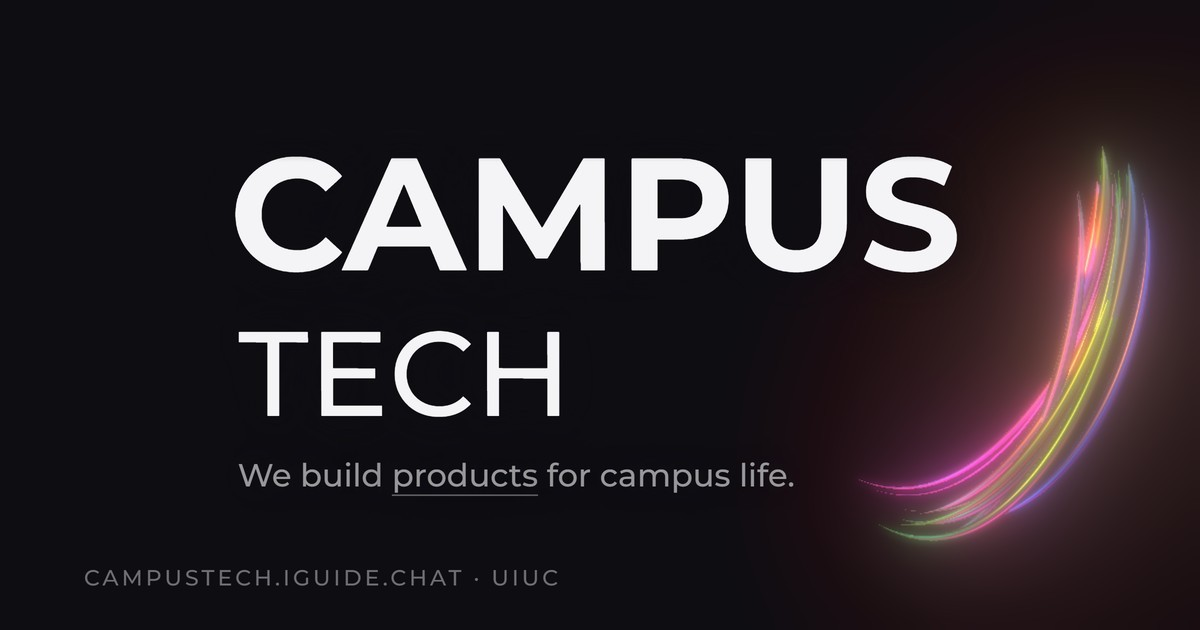
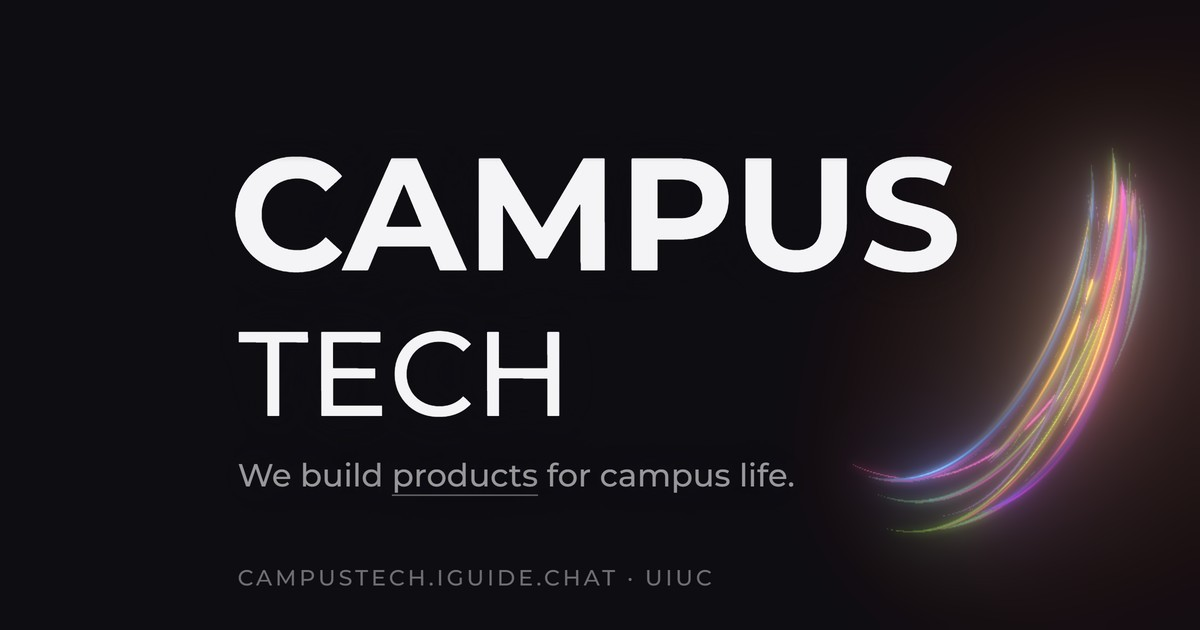
fix: align the link preview's URL line with the lockup
The URL line in og.jpg used a fixed 42px padding, so it sat 150px left of
CAMPUS / TECH / the tagline. The capture now starts it at the tagline's
text edge, and a test checks every line of og.jpg shares one left edge.

Changed region(s): [[0.7092, 0.2413, 0.9867, 0.9048], [0.0617, 0.9048, 0.5858, 0.9349]]

diff --git a/tools/ci/test_site.py b/tools/ci/test_site.py
@@ -648,6 +648,32 @@ def hero_lines_share_an_optical_left_edge(site):
 
 
 @test
+def link_preview_lines_share_a_left_edge(site):
+    """The iMessage preview showed the URL line 150px left of the lockup (a fixed padding, not the
+    lockup's edge). In assets/og.jpg every text line starts on one edge: TECH, the tagline and the
+    URL within 2px, CAMPUS's round C at most 8px past them, never short of them."""
+    from PIL import Image
+
+    im = Image.open(ROOT / "assets" / "og.jpg").convert("L")
+    w, h = im.size
+    px = im.load()
+    # Text is on the left; the tubes glow on the right half.
+    edges = [min((x for x in range(w // 2) if px[x, y] > 90), default=None) for y in range(h)]
+    lines, start = [], None
+    for y, x in enumerate(edges + [None]):
+        if x is not None and start is None:
+            start = y
+        elif x is None and start is not None:
+            if y - start > 4:
+                lines.append(min(edges[start:y]))
+            start = None
+    assert len(lines) == 4, f"expected 4 text lines in og.jpg (CAMPUS, TECH, tagline, URL), found {len(lines)}: {lines}"
+    campus, *rest = lines
+    assert max(rest) - min(rest) <= 2, f"TECH, tagline and URL start at x={rest}, not one edge"
+    assert 0 <= min(rest) - campus <= 8, f"CAMPUS starts at x={campus}, the other lines at {min(rest)}"
+
+
+@test
 def type_is_fluid(site):
     """d76c474: font sizes scale down on narrow screens."""
     big = site.open("/", width=1280)

diff --git a/tools/images/og_capture.py b/tools/images/og_capture.py
@@ -28,7 +28,7 @@ VIEW = {"width": 600, "height": 315}
 HIDE = """
   .nav, #cord, .pullcord, .hero-align, .next, #loader, .preview { display: none !important; }
   html, body { overflow: hidden !important; }
-  #og-url { position: fixed; left: 0; right: 0; bottom: 20px; z-index: 50; padding-left: 42px;
+  #og-url { position: fixed; left: 0; right: 0; bottom: 20px; z-index: 50;
             font: 500 11px Montserrat, sans-serif; letter-spacing: .14em; text-transform: uppercase; color: #6e6e74; }
 """
 
@@ -56,6 +56,12 @@ def main():
         page.add_style_tag(content=HIDE)
         page.evaluate("document.body.insertAdjacentHTML('beforeend', '<div id=\"og-url\">campustech.iguide.chat · UIUC</div>')")
         page.wait_for_timeout(2500)
+        # The URL line shares the lockup's left edge: start it where the tagline's text starts.
+        page.evaluate("""() => {
+          const r = document.createRange();
+          r.selectNodeContents(document.querySelector('.tagline'));
+          document.getElementById('og-url').style.paddingLeft = r.getClientRects()[0].left + 'px';
+        }""")
         # Sweep the cursor around the right side so the tubes swirl beside the lockup.
         n = 0
         for a in range(0, 160):
